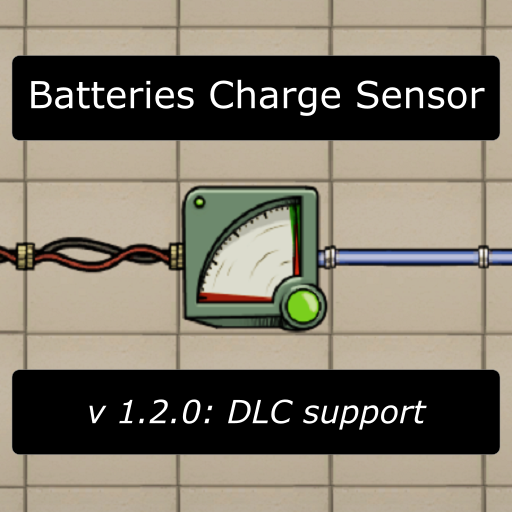
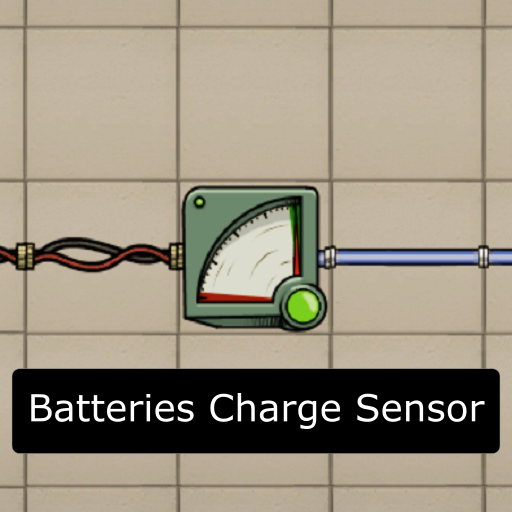
Update mods versions and preview

Changed region(s): [[0.0, 0.0938, 1.0, 0.2812], [0.0312, 0.7188, 0.9688, 0.8438], [0.0312, 0.875, 0.9688, 0.9062]]

diff --git a/source/BatteriesChargeSensor/Properties/AssemblyInfo.cs b/source/BatteriesChargeSensor/Properties/AssemblyInfo.cs
@@ -32,5 +32,5 @@ using System.Runtime.InteropServices;
 // You can specify all the values or you can default the Build and Revision Numbers
 // by using the '*' as shown below:
 // [assembly: AssemblyVersion("1.0.*")]
-[assembly: AssemblyVersion("1.2.0")]
-[assembly: AssemblyFileVersion("1.2.0")]
+[assembly: AssemblyVersion("1.3.0")]
+[assembly: AssemblyFileVersion("1.3.0")]

diff --git a/source/PassiveGasVentInput/Properties/AssemblyInfo.cs b/source/PassiveGasVentInput/Properties/AssemblyInfo.cs
@@ -32,5 +32,5 @@ using System.Runtime.InteropServices;
 // You can specify all the values or you can default the Build and Revision Numbers
 // by using the '*' as shown below:
 // [assembly: AssemblyVersion("1.0.*")]
-[assembly: AssemblyVersion("1.0.0")]
-[assembly: AssemblyFileVersion("1.0.0")]
+[assembly: AssemblyVersion("1.1.0")]
+[assembly: AssemblyFileVersion("1.1.0")]
